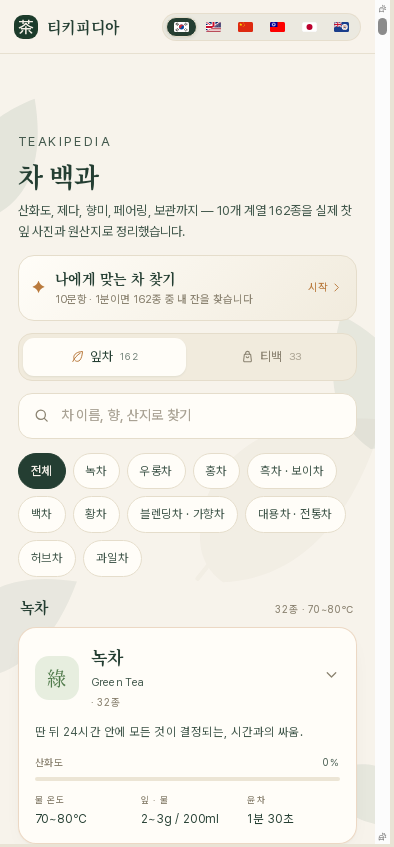
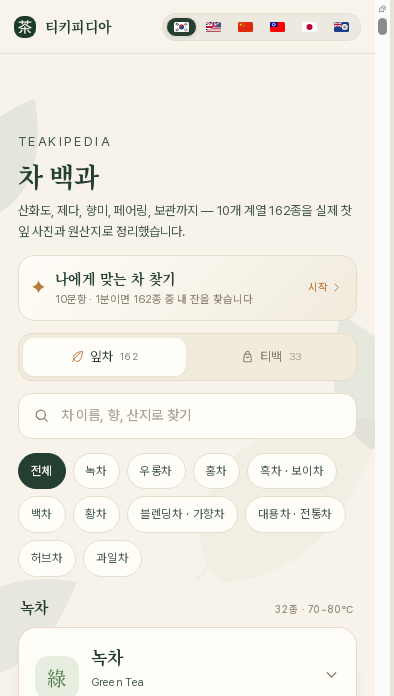
preview: 개편 후 모바일(한/일)·PC 1280 화면 캡처

diff --git a/README.md b/README.md
@@ -44,6 +44,8 @@
 | `icons/logo_tea_mark.svg`, `icons/logo_tea_mark.png` | 헤더 `티키피디아` 앞 茶 마크(정사각 배지). `index.html`·`privacy.html`의 `.brand-mark`가 이 SVG를 씁니다 |
 | `tea_fai_app_standalone.html` | CSS/JS를 모두 인라인한 단일 파일 (파일로 바로 열기) |
 | `preview_home.png` · `preview_timer.png` · `preview_guide.png` · `preview_notes.png` | 390×844 화면 캡처 |
+| `preview/teakipedia-mobile-390.png` · `-ja.png` | 2026-11 개편 후 390×844 화면(한국어·일본어) |
+| `preview/teakipedia-desktop-1280.png` · `-partner-1280.png` · `-store-1280.png` | PC 1280×800 화면(백과·파트너 회원 3등급·스토어) |
 | `build_standalone.py` | `index.html` + CSS + JS → 단일 파일 재생성 |
 | `make_icons.py` | `tea_fai_brand/`의 茶 아이콘에서 PWA 아이콘 다시 만들기 |
 | `tools/build_brand.py` | 단정한 고딕 茶로 아이콘·헤더 배지 다시 만들기 |
